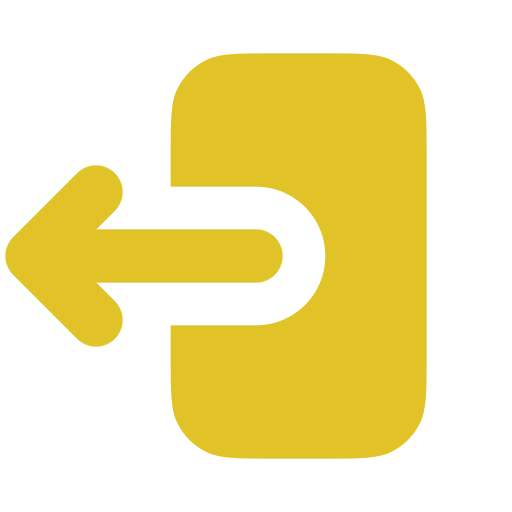
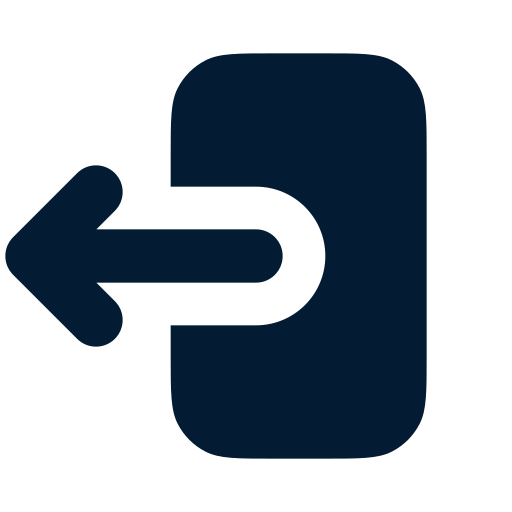
Mejoras en el diseño y funcionalidad del dashboard: se actualizan estilos de tablas, se agrega lógica para verificar rol de administrador, se mejora el manejo de errores en el inicio de sesión y se ajusta el mensaje de verificación de correo.

diff --git a/src/app/dashboard/components/livevideo/livevideo/livevideo.component.css b/src/app/dashboard/components/livevideo/livevideo/livevideo.component.css
@@ -15,28 +15,71 @@
 
 /* Tabla */
 .table-container {
+  background: #fff;
+  border-radius: 14px;
+  box-shadow: 0 4px 24px rgba(0,0,0,0.08);
+  padding: 1.5rem;
+  margin-bottom: 2rem;
   overflow-x: auto;
 }
 
 .devices-table {
   width: 100%;
-  border-collapse: collapse;
-  border-radius: 8px;
+  border-collapse: separate;
+  border-spacing: 0;
+  border-radius: 12px;
   overflow: hidden;
-  box-shadow: 0 0 10px rgba(0,0,0,0.1);
-  background-color: #fff;
+  font-size: 1rem;
+  background: #fff;
 }
 
 .devices-table th,
 .devices-table td {
-  padding: 0.75rem 1rem;
+  padding: 1rem 1.2rem;
   text-align: left;
-  border-bottom: 1px solid #eee;
 }
 
-.devices-table thead {
-  background-color: #f0f4f8;
-  color: #333;
+.devices-table thead th {
+  background: #f5f7fa;
+  font-weight: 600;
+  border-bottom: 2px solid #e0e6ed;
+}
+
+.device-row {
+  border-bottom: 1px solid #f0f0f0;
+  transition: background 0.2s;
+}
+
+.device-row:hover {
+  background: #f8fafc;
+}
+
+.device-name, .device-type, .device-location {
+  font-weight: 500;
+}
+
+.status-dot {
+  display: inline-block;
+  width: 12px;
+  height: 12px;
+  border-radius: 50%;
+  margin-right: 0.5rem;
+  vertical-align: middle;
+}
+
+.status-dot.active {
+  background: #43a047;
+  box-shadow: 0 0 6px #43a04766;
+}
+
+.status-dot.inactive {
+  background: #bdbdbd;
+}
+
+.status-label {
+  font-size: 0.98em;
+  color: #555;
+  vertical-align: middle;
 }
 
 .action-cell {
@@ -44,9 +87,17 @@
   align-items: center;
 }
 
-.status-label {
-  color: green;
-  font-weight: bold;
+.action-cell .btn {
+  display: inline-flex;
+  align-items: center;
+  gap: 0.4em;
+  padding: 0.5em 1.2em;
+  border-radius: 6px;
+  border: none;
+  font-weight: 500;
+  font-size: 1em;
+  cursor: pointer;
+  transition: background 0.2s, color 0.2s;
 }
 
 /* Botones */
@@ -60,21 +111,21 @@
 }
 
 .btn-activate {
-  background-color: #28a745;
-  color: white;
+  background: #43a047;
+  color: #fff;
 }
 
 .btn-activate:hover {
-  background-color: #218838;
+  background: #388e3c;
 }
 
 .btn-deactivate {
-  background-color: #e53935 !important;
-  color: #fff !important;
-  border: none;
+  background: #e53935;
+  color: #fff;
 }
+
 .btn-deactivate:hover {
-  background-color: #b71c1c !important;
+  background: #b71c1c;
 }
 
 /* Video */
@@ -139,4 +190,18 @@
   border-radius: 8px !important;
   padding: 8px 16px !important;
   font-weight: bold;
+}
+
+/* Bordes redondeados en la cabecera y el pie */
+.devices-table th:first-child {
+  border-top-left-radius: 12px;
+}
+.devices-table th:last-child {
+  border-top-right-radius: 12px;
+}
+.devices-table tr:last-child td:first-child {
+  border-bottom-left-radius: 12px;
+}
+.devices-table tr:last-child td:last-child {
+  border-bottom-right-radius: 12px;
 }

diff --git a/src/app/dashboard/components/slidebar/slidebar/slidebar.component.ts b/src/app/dashboard/components/slidebar/slidebar/slidebar.component.ts
@@ -1,31 +1,56 @@
-import { Component } from '@angular/core';
-import { Router, NavigationEnd } from '@angular/router'; // Importa NavigationEnd
-import { filter } from 'rxjs/operators'; // Importa filter
+import { Component, Inject, PLATFORM_ID } from '@angular/core';
+import { Router, NavigationEnd } from '@angular/router';
+import { filter } from 'rxjs/operators';
+import { jwtDecode } from 'jwt-decode';
+import { isPlatformBrowser } from '@angular/common';
+import { CommonModule } from '@angular/common';
 
 @Component({
   selector: 'app-slidebar',
+  standalone: true,
+  imports: [CommonModule],
   templateUrl: './slidebar.component.html',
   styleUrls: ['./slidebar.component.css']
 })
 export class SlidebarComponent {
-  // Nueva propiedad para almacenar la ruta activa
   activeRoute: string = '';
+  isAdmin: boolean = false;
 
-  constructor(private router: Router) {
-    // Suscribirse a los eventos del router para actualizar activeRoute
+  constructor(
+    private router: Router,
+    @Inject(PLATFORM_ID) private platformId: Object
+  ) {
+    if (isPlatformBrowser(this.platformId)) {
+      this.checkAdminRole();
+    }
+
     this.router.events.pipe(
       filter(event => event instanceof NavigationEnd)
     ).subscribe((event: NavigationEnd) => {
-      // Extrae la ruta principal después de /dashboard/ o /
       const urlSegments = event.urlAfterRedirects.split('/');
       if (urlSegments[1] === 'dashboard' && urlSegments.length > 2) {
-        this.activeRoute = urlSegments[2]; // Captura la parte de la ruta después de /dashboard/
+        this.activeRoute = urlSegments[2];
       } else if (urlSegments[1] === 'landing-page') {
-        this.activeRoute = 'landing-page'; // Para la ruta de landing-page
+        this.activeRoute = 'landing-page';
       } else {
-        this.activeRoute = ''; // Por si no hay ruta activa o es otra cosa
+        this.activeRoute = '';
       }
     });
+  }
+
+  checkAdminRole(): void {
+    if (isPlatformBrowser(this.platformId)) {
+      const token = localStorage.getItem('access_token');
+      if (token) {
+        try {
+          const decoded: any = jwtDecode(token);
+          const roles: string[] = decoded.realm_access?.roles || [];
+          this.isAdmin = roles.includes('admin');
+        } catch (e) {
+          this.isAdmin = false;
+        }
+      }
+    }
   }
 
   navigateTo(route: string): void {
@@ -34,6 +59,5 @@ export class SlidebarComponent {
     } else {
       this.router.navigate(['/dashboard', route]);
     }
-    // No necesitas actualizar activeRoute aquí, el router.events se encargará
   }
 }

diff --git a/src/app/dashboard/components/slidebar/slidebar/slidebar.component.html b/src/app/dashboard/components/slidebar/slidebar/slidebar.component.html
@@ -1,15 +1,15 @@
 <section id="sidebar">
   <button class="brand" (click)="navigateTo('landing-page')" [class.active]="activeRoute === 'landing-page'">
-  <img src="assets/detect_logo.png" alt="Logo" class="logo-img" />
-  <h1>Detect</h1>
-</button>
+    <img src="assets/detect_logo.png" alt="Logo" class="logo-img" />
+    <h1>Detect</h1>
+  </button>
   <ul class="side-menu">
     <li>
       <button (click)="navigateTo('home')" [class.active]="activeRoute === 'home'">
         <i class='bx bxs-dashboard icon'></i> Inicio
       </button>
     </li>
-    <li>
+    <li *ngIf="isAdmin">
       <button (click)="navigateTo('users')" [class.active]="activeRoute === 'users'">
         <i class='bx bxs-chart icon'></i> Usuarios
       </button>

diff --git a/src/app/login/login.component.ts b/src/app/login/login.component.ts
@@ -45,14 +45,18 @@ export class LoginComponent {
         localStorage.setItem('access_token', response.access_token);
         console.log('Token generado:', response.access_token);
         // Redirigir a la página prueba
-        this.router.navigate(['/dashboard']);
+        this.router.navigate(['/dashboard/home']);
       },
       error: (error) => {
         console.error('Error al obtener el token:', error);
-        this.errorMessage = 'Usuario o contraseña incorrectos';
+        this.errorMessage = 'Usuario o contraseña incorrectos o correo no verificado.';
       }
     });
 
 
+  }
+
+  clearError() {
+    this.errorMessage = '';
   }
 }

diff --git a/src/app/login/login.component.html b/src/app/login/login.component.html
@@ -17,6 +17,7 @@
           [(ngModel)]="username"
           name="username"
           required
+          (input)="clearError()"
         />
         <i class="fas fa-user icon"></i>
       </div>
@@ -28,15 +29,15 @@
           [(ngModel)]="password"
           name="password"
           required
+          (input)="clearError()"
         />
         <i class="fas fa-lock icon"></i>
       </div>
 
 
       <button type="submit" class="login-btn">Iniciar sesión</button>
-
-      <div *ngIf="errorMessage" class="error-message">
-        {{ errorMessage }}
+      <div style="margin-top: 1.2em; min-height: 2em;">
+        <span *ngIf="errorMessage" class="error-message">{{ errorMessage }}</span>
       </div>
     </form>
 

diff --git a/src/app/login/login.component.spec.ts b/src/app/login/login.component.spec.ts
@@ -21,3 +21,6 @@ describe('LoginComponent', () => {
     expect(component).toBeTruthy();
   });
 });
+
+<input type="text" [(ngModel)]="username" (input)="clearError()" ...>
+<input type="password" [(ngModel)]="password" (input)="clearError()" ...>

diff --git a/src/app/dashboard/components/navbar/navbar/navbar.component.html b/src/app/dashboard/components/navbar/navbar/navbar.component.html
@@ -9,6 +9,6 @@
 
 
   <div class="profile">
-    <img src="assets/salir.png" class="slide" (click)="logout()">
+    <img src="assets/salir.png" class="slide" (click)="logout()" title="Cerrar sesión">
   </div>
 </nav>

diff --git a/src/app/dashboard/components/users/users/users.component.ts b/src/app/dashboard/components/users/users/users.component.ts
@@ -172,7 +172,7 @@ export class UsersComponent implements OnInit {
                 Swal.fire({
                   icon: 'success',
                   title: 'Usuario agregado correctamente',
-                  text: 'Se ha enviado un correo de verificación al usuario',
+                  text: 'Se ha enviado un correo de verificación, para ingresar debes tener verificado tu correo.',
                   showConfirmButton: false,
                   timer: 1800
                 });